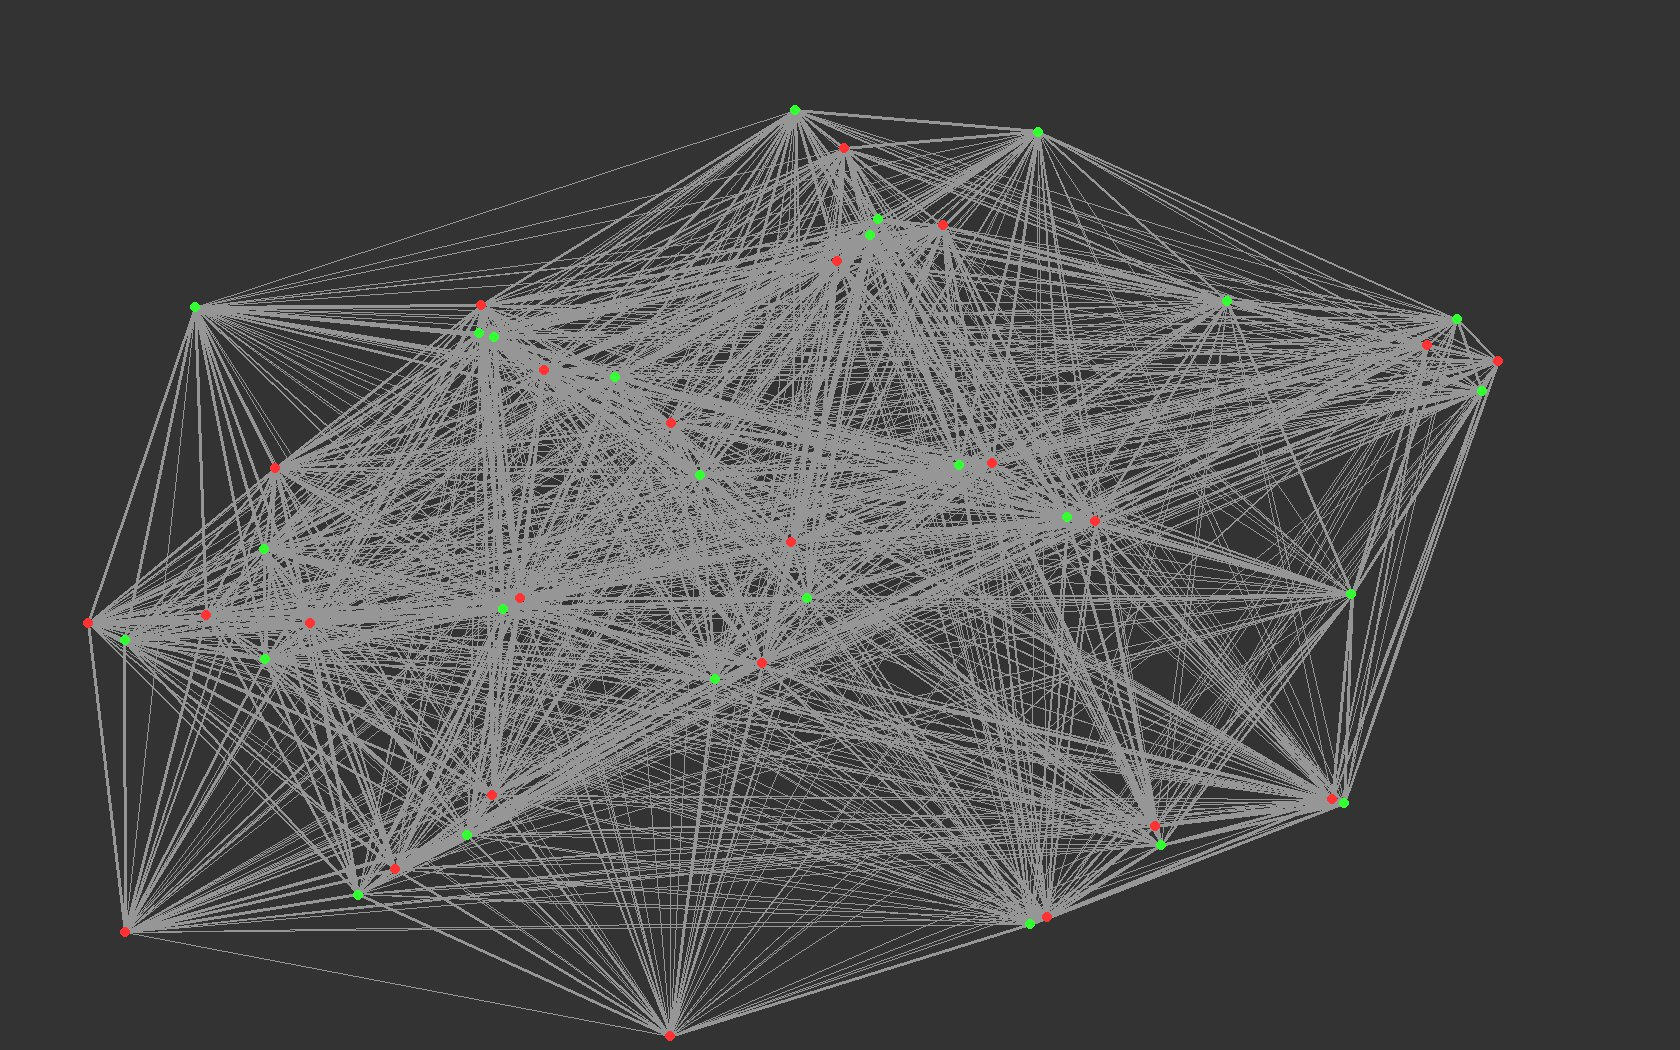
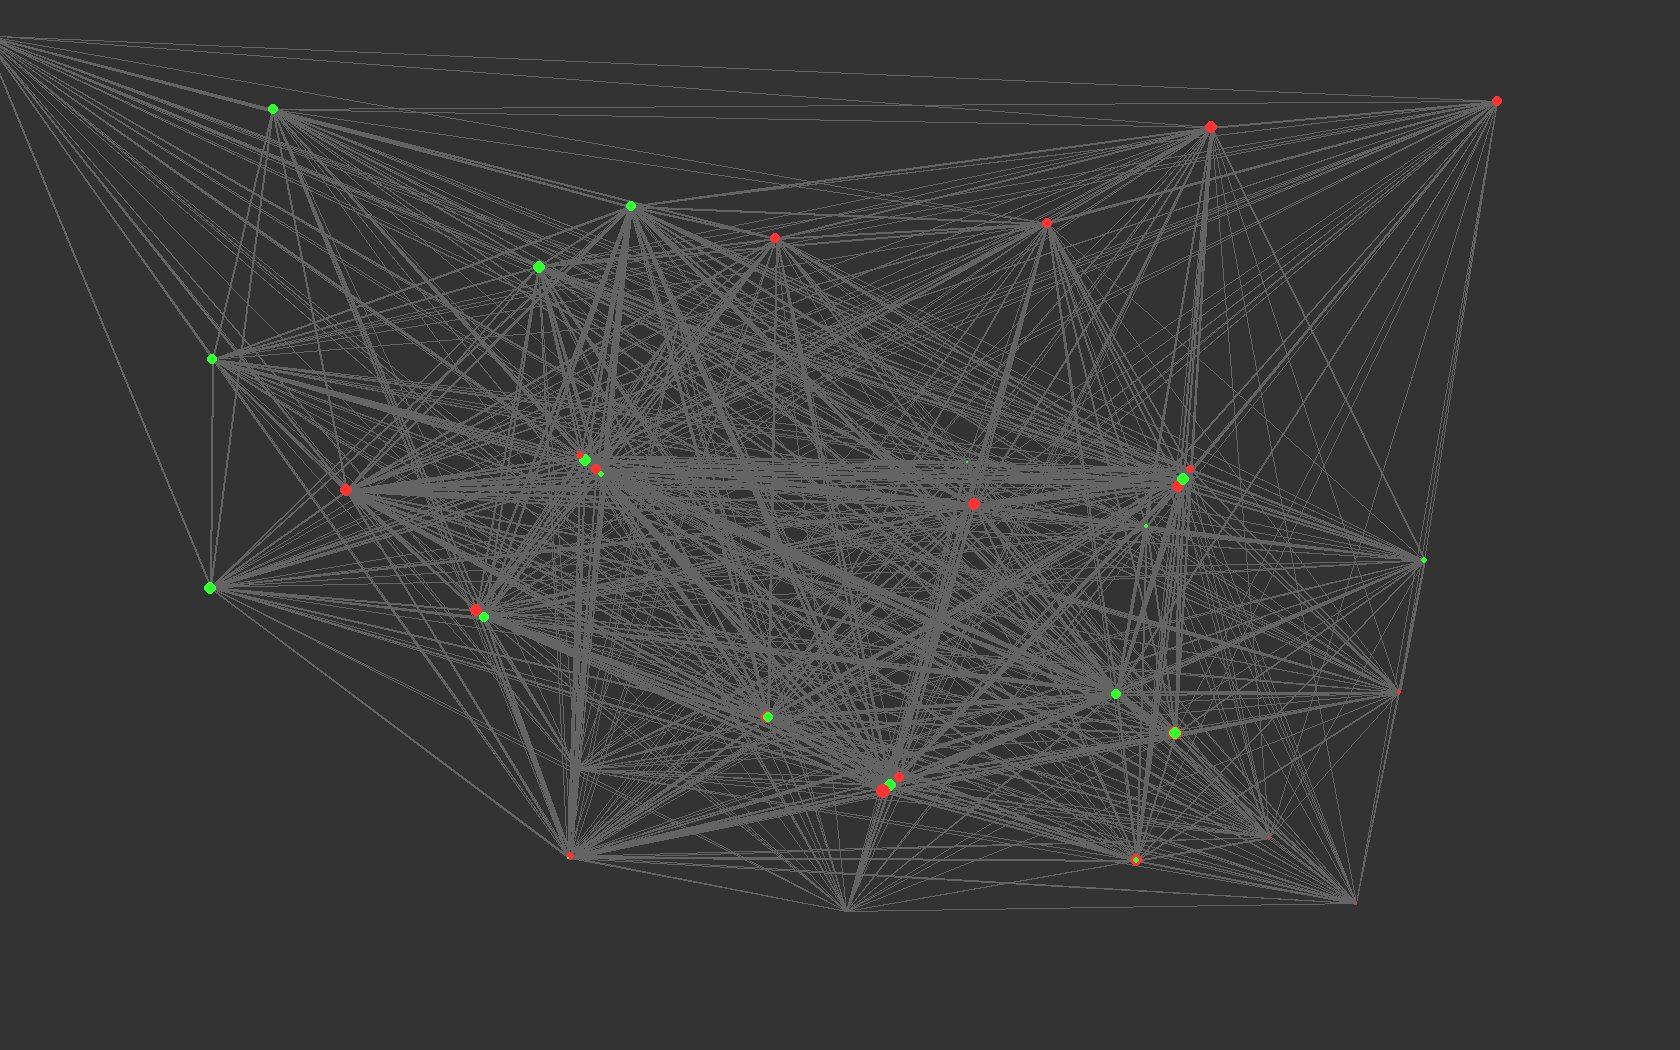
Added particle scalable radius

diff --git a/main.py b/main.py
@@ -8,12 +8,14 @@ disp = pygame.display
 
 METER = 10000
 K = 9 * (10**9)
-MIN_DISTANCE = 0.0015
+MIN_DISTANCE = 0.0018
 Q = 20 * (10**(-9))
 M = 0.5
 PARTICLE_COUNT = 50
 FULLSCREEN = True
-DRAW_LINES = False
+DRAW_LINES = True
+RADIUS_SCALED = False
+R = 4
 
 if FULLSCREEN:
     win = disp.set_mode((0, 0), pygame.FULLSCREEN)
@@ -69,7 +71,7 @@ class Particle:
 
         self.sign = r.choice([1, -1]) if sign == 0 else sign
 
-        self.q = r.randrange(5, 20)*(10**(-9)) if q == 0 else q
+        self.q = r.randrange(1, 30)*(10**(-9)) if q == 0 else q
         self.q = abs(self.q)*self.sign
 
         self.m = M if m == 0 else m
@@ -77,6 +79,10 @@ class Particle:
         self.vel = Vector(0, 0)
         self.acc = Vector(0, 0)
         self.lockedpos = lockedpos
+        if RADIUS_SCALED:
+            self.r = abs(self.q)*(250000000)
+        else:
+            self.r = R
 
     def update(self) -> None:
         if not self.lockedpos:
@@ -90,9 +96,9 @@ class Particle:
             self.pos.y += self.vel.y
 
             self.acc = Vector(0, 0)
-            draw.circle(win, self.colors[0] if self.sign < 0 else self.colors[1], (self.x, self.y), 4)
+            draw.circle(win, self.colors[0] if self.sign < 0 else self.colors[1], (self.x, self.y), self.r)
             return
-        draw.circle(win, (20, 150, 20), (self.x, self.y), self.m*4)
+        draw.circle(win, (20, 150, 20), (self.x, self.y), self.r)
     
     @property
     def x(self) -> float:
@@ -121,7 +127,7 @@ class Particle:
         return Vector(forcex, forcey)
    
 particles = [
-    Particle(q=Q) for x in range(PARTICLE_COUNT)
+    Particle() for x in range(PARTICLE_COUNT)
 ]
 #Textbook example
 #particles = [
@@ -146,7 +152,7 @@ while True:
             Particle.apply_force(p1, force)
             
             if DRAW_LINES:
-                draw.line(win, (220, 220, 220), (p1.x, p1.y), (p2.x, p2.y), int(min(3, max(1, force.mag*1500))))
+                draw.line(win, (100, 100, 100), (p1.x, p1.y), (p2.x, p2.y), int(min(2, max(1, force.mag*1500))))
     [p.update() for p in particles]
     disp.update()
     
